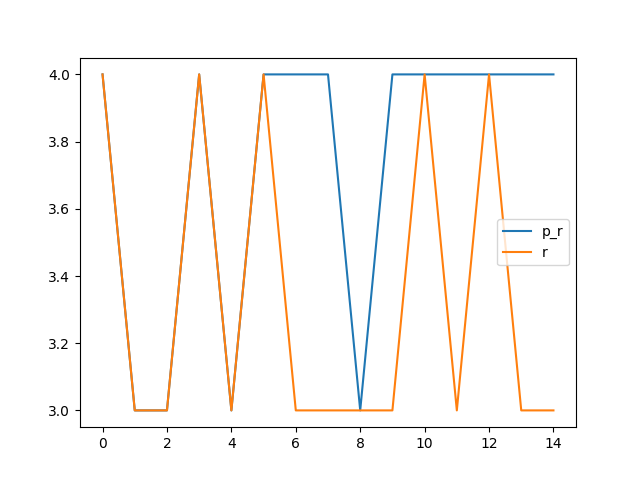
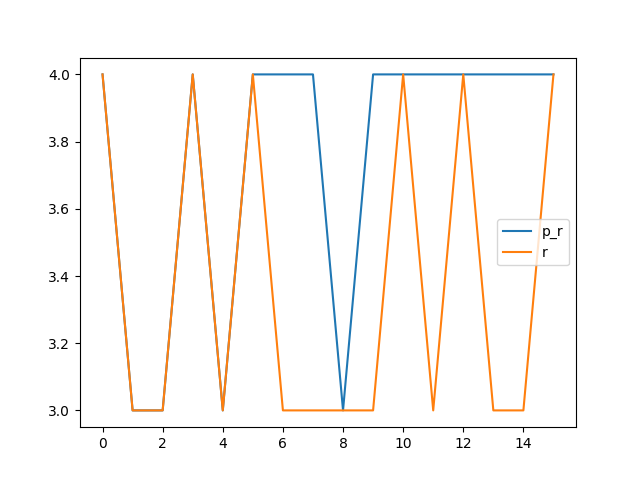
0x000F

diff --git a/benchmark.md b/benchmark.md
@@ -30,6 +30,8 @@ Synthesising 0x000D pexact:182 r=4 exact:216 r=3
 
 Synthesising 0x000E pexact:182 r=4 exact:216 r=3
 
+Synthesising 0x000F pexact:182 r=4 exact:352 r=4
+
 ![image1](benchmark_r.png?)
 
 ![image2](benchmark_s.png?)
